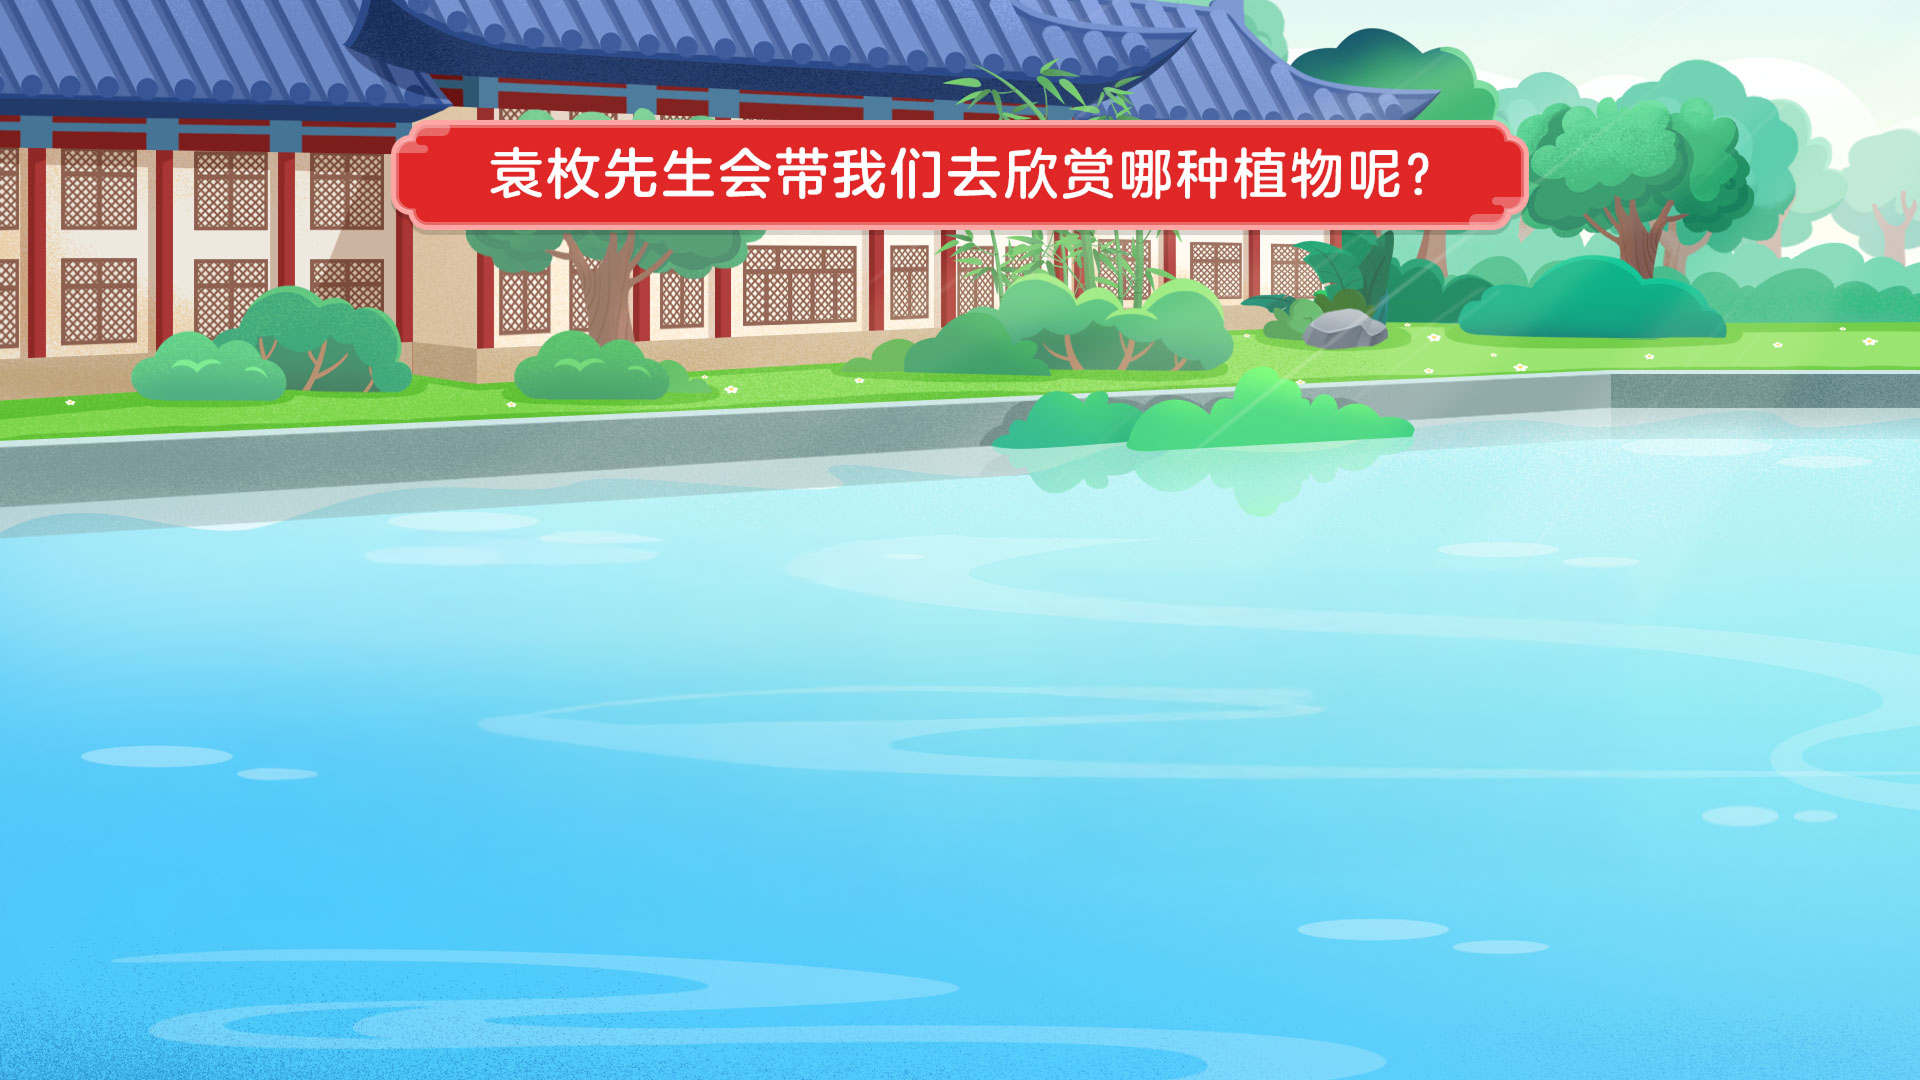
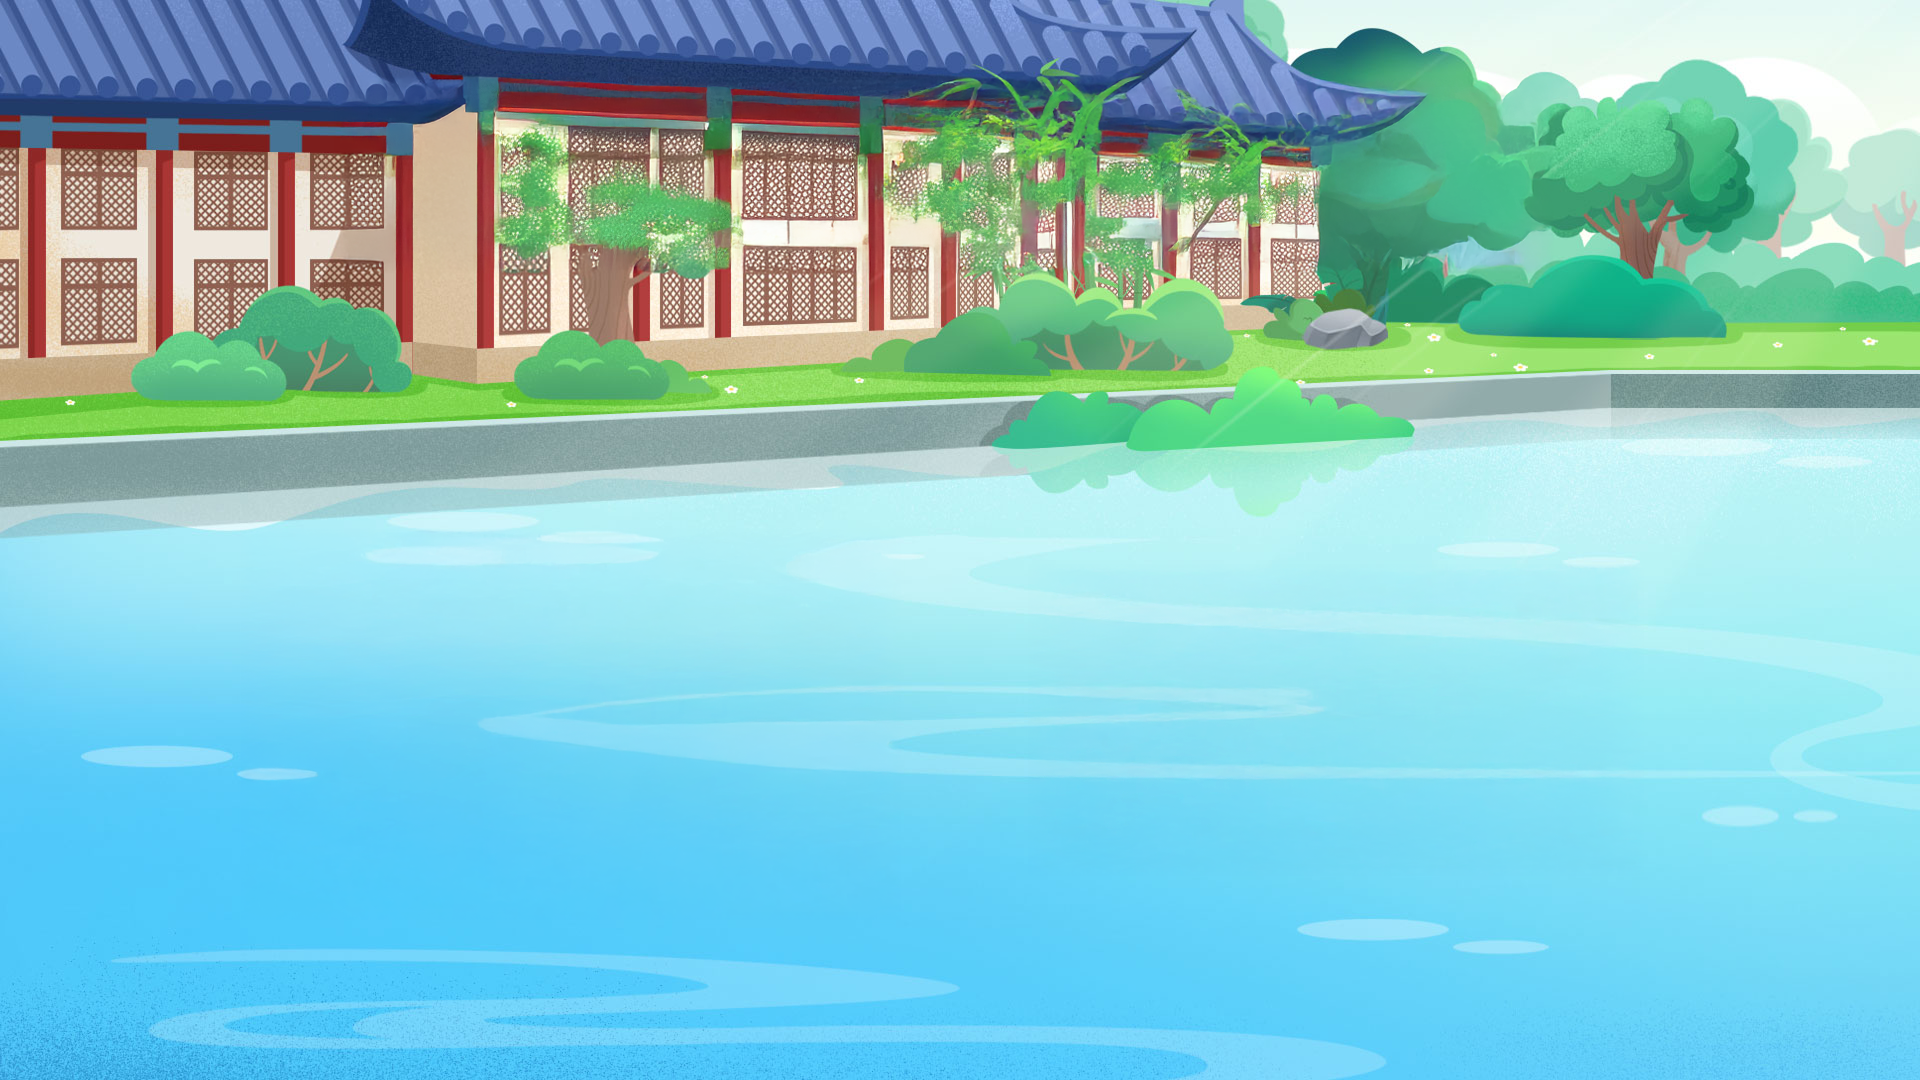
投票

Changed region(s): [[0.1562, 0.0611, 0.8125, 0.275]]

diff --git a/touPiao.html b/touPiao.html
@@ -1,0 +1,197 @@
+<!DOCTYPE html>
+<html lang="zh-CN">
+
+<head>
+    <meta charset="UTF-8">
+    <meta name="viewport" content="width=device-width, initial-scale=1.0">
+    <title>互动投票</title>
+    <style>
+        * {
+            margin: 0;
+            padding: 0;
+            box-sizing: border-box;
+        }
+
+        body,
+        html {
+            width: 100%;
+            height: 100%;
+            margin: 0;
+            padding: 0;
+            overflow: hidden;
+            display: flex;
+            justify-content: center;
+            align-items: center;
+            background-color: #333;
+            /* 背景色，方便看清楚画布边界 */
+            font-family: "Microsoft YaHei", sans-serif;
+        }
+
+        .container {
+            width: 1280px;
+            height: 720px;
+            background-image: url('assets/touPiao/bj.png');
+            background-size: 100% 100%;
+            position: relative;
+            display: flex;
+            flex-direction: column;
+            align-items: center;
+            justify-content: center;
+            box-shadow: 0 0 20px rgba(0, 0, 0, 0.5);
+            /* 给画布加个阴影 */
+        }
+
+        /* 标题部分 */
+        .title-box {
+            position: absolute;
+            top: 10%;
+            /* 根据页面大概位置调整 */
+            width: 70%;
+            /* 估计宽度 */
+            max-width: 900px;
+            aspect-ratio: 1142/117;
+            background-image: url('assets/touPiao/bt.png');
+            background-size: 100% 100%;
+            background-repeat: no-repeat;
+            display: flex;
+            align-items: center;
+            justify-content: center;
+            z-index: 10;
+        }
+
+        .title-text {
+            font-size: 2.5vw;
+            color: #fff;
+            /* 假设文字颜色 */
+            font-weight: bold;
+            outline: none;
+            text-shadow: 2px 2px 4px rgba(0, 0, 0, 0.5);
+            margin-top: -1%;
+            /* 微调文字位置 */
+        }
+
+        /* 选项区域 */
+        .options-container {
+            position: absolute;
+            top: 40%;
+            width: 80%;
+            display: flex;
+            justify-content: space-around;
+            align-items: center;
+        }
+
+        .option-item {
+            position: relative;
+            width: 35%;
+            max-width: 400px;
+            aspect-ratio: 518/229;
+            /* 修正为真实图片比例 */
+            background-image: url('assets/touPiao/xuanXiang.png');
+            background-size: 100% 100%;
+            background-repeat: no-repeat;
+            display: flex;
+            align-items: center;
+            justify-content: center;
+            cursor: pointer;
+            transition: transform 0.1s ease;
+            padding: 0 10%;
+            /* 增加内边距，确保文字在中间区域（假设的绿色树叶范围） */
+        }
+
+        .option-item:active {
+            transform: scale(0.95);
+        }
+
+        .option-text {
+            position: absolute;
+            top: 50%;
+            left: 60%;
+            /* 继续向右移动，设为60% */
+            transform: translate(-50%, -50%);
+            width: 60%;
+            /* 限制文字宽度，确保不超出叶子范围 */
+            text-align: center;
+            font-size: 2.2vw;
+            /* 稍微缩小字号，更精致 */
+            color: #333;
+            font-weight: bold;
+            outline: none;
+            z-index: 2;
+            pointer-events: auto;
+            line-height: 1.2;
+            /* 确保可以点击编辑 */
+        }
+
+        /* 投票反馈简单动画/显示 */
+        .vote-count {
+            position: absolute;
+            bottom: -30px;
+            font-size: 1.5rem;
+            color: white;
+            background: rgba(0, 0, 0, 0.5);
+            padding: 5px 15px;
+            border-radius: 20px;
+            opacity: 0;
+            /* 默认隐藏，点击后显示 */
+            transition: opacity 0.3s;
+        }
+
+        /* 选中时的发光效果 */
+        .option-item.selected {
+            filter: drop-shadow(0 0 15px rgba(255, 255, 0, 0.8));
+            /* 黄色发光 */
+            transform: scale(1.05);
+            /* 稍微放大一点 */
+        }
+    </style>
+</head>
+
+<body>
+
+    <div class="container">
+        <!-- 标题 -->
+        <div class="title-box">
+            <div class="title-text" contenteditable="true">点击此处编辑标题</div>
+        </div>
+
+        <!-- 选项 -->
+        <div class="options-container">
+            <!-- 选项 A -->
+            <div class="option-item" id="optionA" onclick="vote('A')">
+                <div class="option-text" contenteditable="true" onclick="event.stopPropagation()">选项 A</div>
+                <div class="vote-count" id="countA">票数: 0</div>
+            </div>
+
+            <!-- 选项 B -->
+            <div class="option-item" id="optionB" onclick="vote('B')">
+                <div class="option-text" contenteditable="true" onclick="event.stopPropagation()">选项 B</div>
+                <div class="vote-count" id="countB">票数: 0</div>
+            </div>
+        </div>
+    </div>
+
+    <script>
+        // 模拟后台数据
+        let votes = {
+            A: 0,
+            B: 0
+        };
+
+        function vote(option) {
+            votes[option]++;
+            console.log(`投票给 ${option}，当前票数：`, votes);
+
+            // 更新显示 (模拟后台看见)
+            const countEl = document.getElementById(`count${option}`);
+            countEl.textContent = `票数: ${votes[option]}`;
+            countEl.style.opacity = 1;
+
+            // 处理发光效果：先移除所有选项的selected类，再给当前点击的加上
+            document.querySelectorAll('.option-item').forEach(el => el.classList.remove('selected'));
+            const item = document.getElementById(`option${option}`);
+            item.classList.add('selected');
+        }
+    </script>
+</body>
+
+</html>
